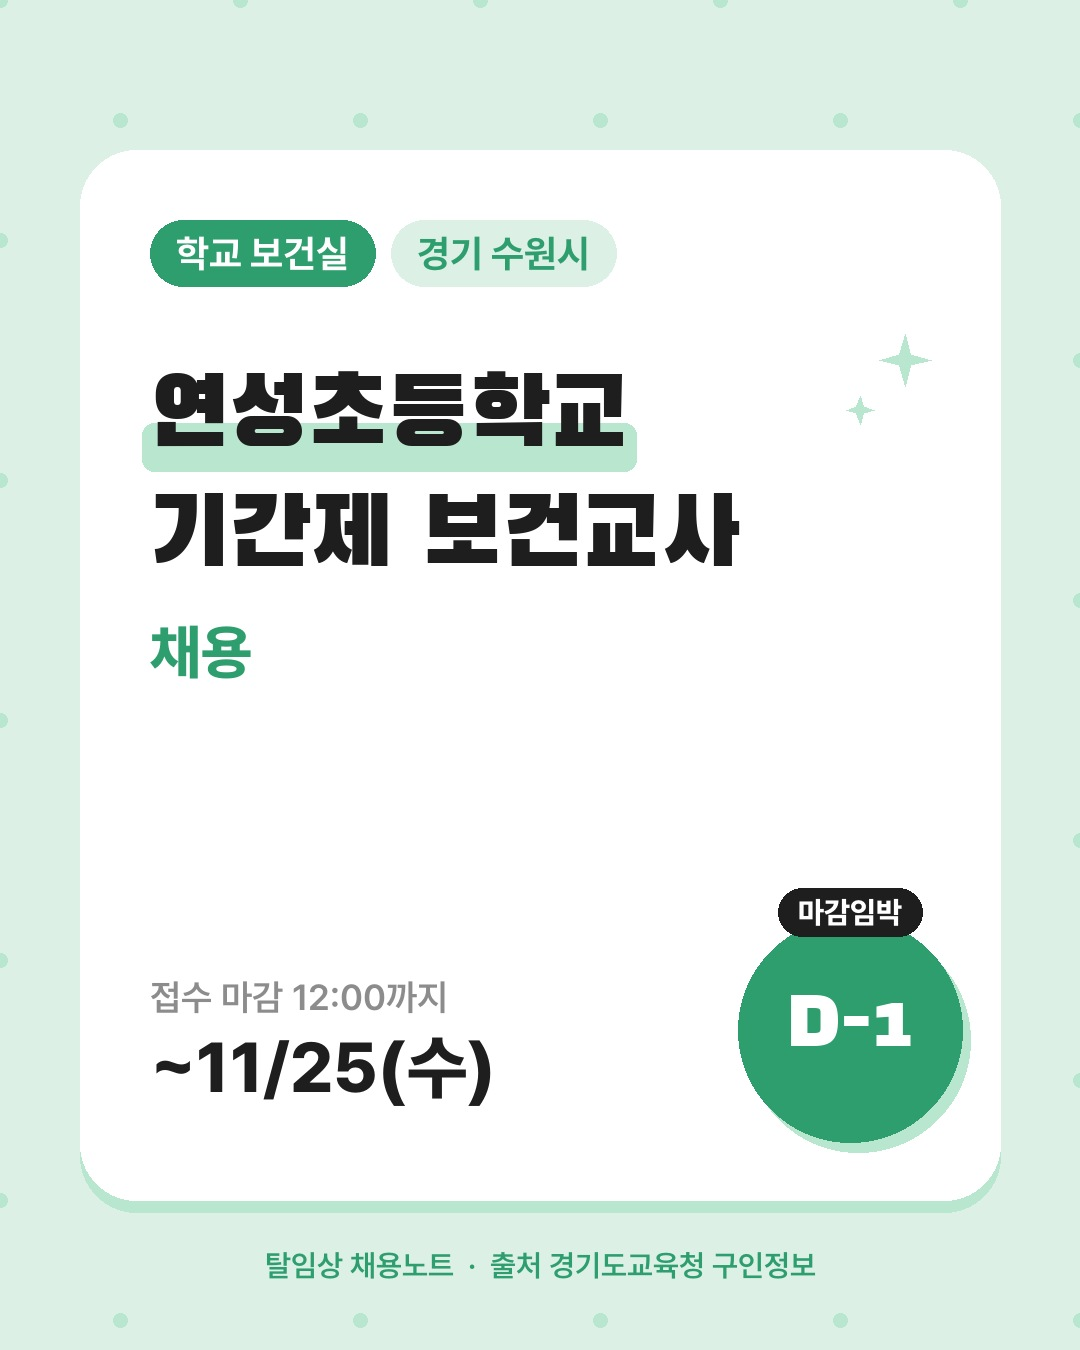
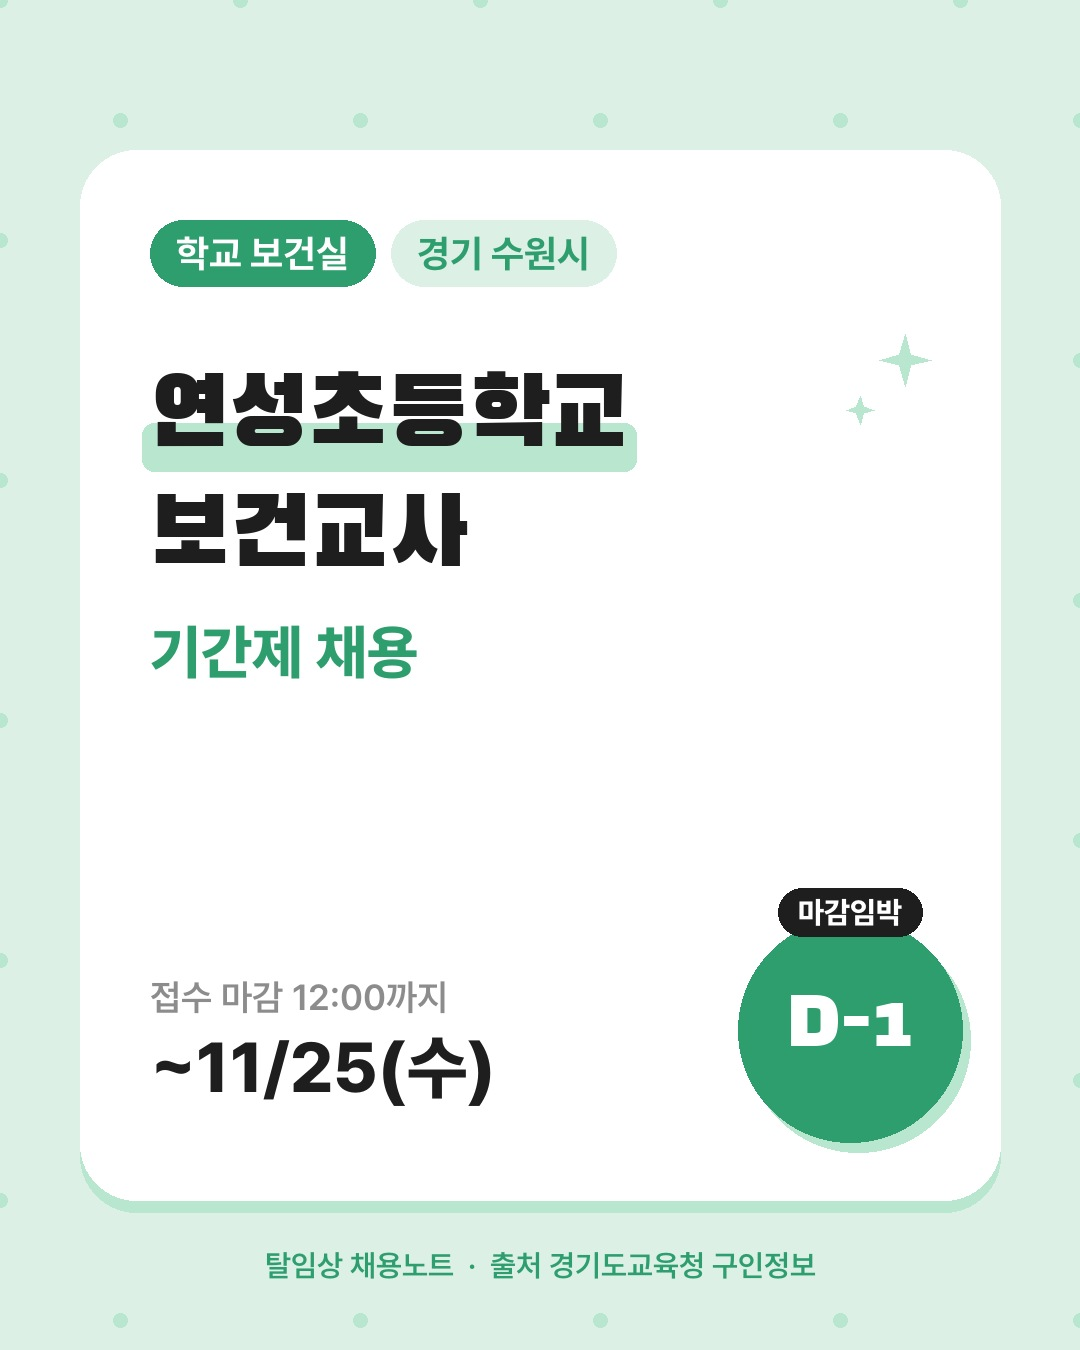
분류·콘텐츠 생성·검토 2026-11-24
Claude-Session: https://claude.ai/code/session_015ozFBuX7AqhcAufKMqorkR

Changed region(s): [[0.1222, 0.3422, 0.7028, 0.4356], [0.1222, 0.4667, 0.3972, 0.4978]]

diff --git a/docs/2026-11-24/index.html b/docs/2026-11-24/index.html
@@ -47,16 +47,16 @@ a{color:var(--accent)}ul.days{padding-left:1.2em}
 <div class="row" style="margin-top:10px"><pre id="tg1" style="flex:1;margin:0">#순천향대학교서울병원채용 #간호사채용 #탈임상 #탈임상간호사 #순천향대서울병원 #임상시험지원팀 #연구간호사 #서울간호사 #계약직 #간호사이직</pre>
 <button onclick="copyText('tg1',this)">태그 복사</button></div>
 <div class="row" style="margin-top:10px;align-items:flex-start"><a href="thumb-01.png" download><img src="thumb-01.png" alt="썸네일 1" style="width:160px;border-radius:8px;border:1px solid var(--line)"></a>
-<span class="muted">썸네일: 이미지를 눌러 저장 후 글 맨 위에 넣으세요</span></div></div><div class="box"><div class="row"><b>글 2. 연성초등학교 · 기간제 보건교사</b>
+<span class="muted">썸네일: 이미지를 눌러 저장 후 글 맨 위에 넣으세요</span></div></div><div class="box"><div class="row"><b>글 2. 연성초등학교 · 보건교사</b>
 <span class="muted">카테고리: 탈임상 채용공고 &gt; 보건교사</span></div>
-<div class="row" style="margin-top:8px"><pre id="pt2" style="flex:1;margin:0">[수원] 연성초등학교 기간제 보건교사 채용 (~11/25)</pre>
+<div class="row" style="margin-top:8px"><pre id="pt2" style="flex:1;margin:0">[수원] 연성초등학교 보건교사 기간제 채용 (~11/25)</pre>
 <button onclick="copyText('pt2',this)">제목 복사</button></div>
 <details open><summary class="muted" style="margin:10px 0;cursor:pointer">본문 미리보기 (접기)</summary>
 <div id="pb2" class="post"><p>1년짜리 기간제라 학교 보건실 경력을 한 학년 동안 온전히 쌓을 수 있는 자리입니다. 수원 연성초등학교가 12월 1일부터 근무할 보건교사를 찾습니다.</p><p>&nbsp;</p>
 <h2>📌 채용 개요</h2>
 <table border="1" cellpadding="8" style="border-collapse:collapse;width:100%">
 <tr><td style="width:30%;background:#f5f5f5"><b>기관</b></td><td>연성초등학교</td></tr>
-<tr><td style="width:30%;background:#f5f5f5"><b>부서 · 직무</b></td><td>기간제 보건교사</td></tr>
+<tr><td style="width:30%;background:#f5f5f5"><b>부서 · 직무</b></td><td>보건교사</td></tr>
 <tr><td style="width:30%;background:#f5f5f5"><b>채용 인원</b></td><td>1명</td></tr>
 <tr><td style="width:30%;background:#f5f5f5"><b>고용 형태</b></td><td>기간제교원 (1년 계약) (2026.12.01~2027.11.30 (1년))</td></tr>
 <tr><td style="width:30%;background:#f5f5f5"><b>근무지</b></td><td>경기 수원시</td></tr>
@@ -255,10 +255,10 @@ a{color:var(--accent)}ul.days{padding-left:1.2em}
 <tr><td>11/25<br><b><span style="color:#e03131">D-1</span></b></td><td><a href="https://job.alio.go.kr/recruitview.do?idx=306861">대한적십자사</a><br>인천적십자병원 심사실 보험심사 간호사 · <b>대체인력</b><br>📝 <a href="https://blog.naver.com/PostSearchList.naver?blogId=live_in_fact&amp;orderType=sim&amp;searchText=%EB%8C%80%ED%95%9C%EC%A0%81%EC%8B%AD%EC%9E%90%EC%82%AC">정리글 보기</a></td><td>인천 연수구</td></tr>
 <tr><td>11/29<br>D-5</td><td>🆕 <a href="https://job.incruit.com/jobdb_info/jobpost.asp?job=2611230000589&amp;pco=583">IPARK현대산업개발</a><br>보건관리자 · <b>계약직</b></td><td>서울 용산구</td></tr>
 <tr><td>11/29<br>D-5</td><td>🆕 <a href="https://www.jobkorea.co.kr/Recruit/GI_Read/50410286">크루솔루션스</a><br>평택 사업장 보건관리자 · <b>정규직</b><br>📝 <a href="https://blog.naver.com/PostSearchList.naver?blogId=live_in_fact&amp;orderType=sim&amp;searchText=%ED%81%AC%EB%A3%A8%EC%86%94%EB%A3%A8%EC%85%98%EC%8A%A4">정리글 보기</a></td><td>경기 평택시</td></tr>
-<tr><td>11/30<br>D-6</td><td>🆕 <a href="https://www.work24.go.kr/wk/a/b/1500/empDetailAuthView.do?wantedAuthNo=186138&amp;infoTypeCd=OEW&amp;infoTypeGroup=tb_workinfoopen">에스지씨이앤씨</a><br>보건관리자</td><td>전국 (현장)</td></tr>
+<tr><td>11/30<br>D-6</td><td>🆕 <a href="https://www.work24.go.kr/wk/a/b/1500/empDetailAuthView.do?wantedAuthNo=186138&amp;infoTypeCd=OEW&amp;infoTypeGroup=tb_workinfoopen">에스지씨이앤씨</a><br>보건관리자<br>📝 <a href="https://blog.naver.com/PostSearchList.naver?blogId=live_in_fact&amp;orderType=sim&amp;searchText=%EC%97%90%EC%8A%A4%EC%A7%80%EC%94%A8%EC%9D%B4%EC%95%A4%EC%94%A8">정리글 보기</a></td><td>전국 (현장)</td></tr>
 <tr><td>11/30<br>D-6</td><td>🆕 <a href="https://www.jobkorea.co.kr/Recruit/GI_Read/50395495">케이티씨에스</a><br>LG전자 매니저운영센터 보건관리자 · <b>계약직</b><br>📝 <a href="https://blog.naver.com/PostSearchList.naver?blogId=live_in_fact&amp;orderType=sim&amp;searchText=%EC%BC%80%EC%9D%B4%ED%8B%B0%EC%94%A8%EC%97%90%EC%8A%A4">정리글 보기</a></td><td>서울 강서구</td></tr>
-<tr><td>12/2<br>D-8</td><td>🆕 <a href="http://www.saramin.co.kr/zf_user/recruit/recruit-view?idx=55649076">라온건설</a><br>보건관리자 · <b>계약직</b></td><td>경기 용인시 ·  대전 서구</td></tr>
-<tr><td>12/6<br>D-12</td><td>🆕 <a href="https://www.work24.go.kr/wk/a/b/1500/empDetailAuthView.do?wantedAuthNo=K172112611230068&amp;infoTypeCd=VALIDATION&amp;infoTypeGroup=tb_workinfoworknet">환영철강공업</a><br>보건관리자 · <b>무기계약직</b></td><td>충청 당진시</td></tr>
+<tr><td>12/2<br>D-8</td><td>🆕 <a href="http://www.saramin.co.kr/zf_user/recruit/recruit-view?idx=55649076">라온건설</a><br>보건관리자 · <b>계약직</b><br>📝 <a href="https://blog.naver.com/PostSearchList.naver?blogId=live_in_fact&amp;orderType=sim&amp;searchText=%EB%9D%BC%EC%98%A8%EA%B1%B4%EC%84%A4">정리글 보기</a></td><td>경기 용인시 ·  대전 서구</td></tr>
+<tr><td>12/6<br>D-12</td><td>🆕 <a href="https://www.work24.go.kr/wk/a/b/1500/empDetailAuthView.do?wantedAuthNo=K172112611230068&amp;infoTypeCd=VALIDATION&amp;infoTypeGroup=tb_workinfoworknet">환영철강공업</a><br>보건관리자 · <b>무기계약직</b><br>📝 <a href="https://blog.naver.com/PostSearchList.naver?blogId=live_in_fact&amp;orderType=sim&amp;searchText=%ED%99%98%EC%98%81%EC%B2%A0%EA%B0%95%EA%B3%B5%EC%97%85">정리글 보기</a></td><td>충청 당진시</td></tr>
 <tr><td>12/18<br>D-24</td><td>🆕 <a href="https://www.work24.go.kr/wk/a/b/1500/empDetailAuthView.do?wantedAuthNo=51969656&amp;infoTypeCd=CJK&amp;infoTypeGroup=tb_workinfogubun">제일비에스</a><br>본사 보건관리자 · <b>정규직</b><br>📝 <a href="https://blog.naver.com/PostSearchList.naver?blogId=live_in_fact&amp;orderType=sim&amp;searchText=%EC%A0%9C%EC%9D%BC%EB%B9%84%EC%97%90%EC%8A%A4">정리글 보기</a></td><td>서울 서초구</td></tr>
 <tr><td>12/23<br>D-29</td><td>🆕 <a href="http://www.saramin.co.kr/zf_user/recruit/recruit-view?idx=55648118">지에스건설</a><br>보건관리자 · <b>계약직</b></td><td>대전 중구</td></tr>
 <tr><td>12/31<br>D-37</td><td>🆕 <a href="https://www.work24.go.kr/wk/a/b/1500/empDetailAuthView.do?wantedAuthNo=K163012611190022&amp;infoTypeCd=VALIDATION&amp;infoTypeGroup=tb_workinfoworknet">록산에버그린</a><br>보건관리자 · <b>정규직</b><br>📝 <a href="https://blog.naver.com/PostSearchList.naver?blogId=live_in_fact&amp;orderType=sim&amp;searchText=%EB%A1%9D%EC%82%B0%EC%97%90%EB%B2%84%EA%B7%B8%EB%A6%B0">정리글 보기</a></td><td>제주 제주시</td></tr>
@@ -304,13 +304,13 @@ a{color:var(--accent)}ul.days{padding-left:1.2em}
 <h2>🔬 임상연구 (12건)</h2>
 <table border="1" cellpadding="8" style="border-collapse:collapse;width:100%">
 <tr style="background:#f5f5f5"><td><b>마감</b></td><td><b>기관 · 직무</b></td><td><b>근무지</b></td></tr>
-<tr><td>11/25<br><b><span style="color:#e03131">D-1</span></b></td><td>🆕 <a href="http://www.saramin.co.kr/zf_user/recruit/recruit-view?idx=55619733">순천향대학교서울병원</a><br>임상시험 간호사 · <b>계약직</b></td><td>서울 용산구</td></tr>
+<tr><td>11/25<br><b><span style="color:#e03131">D-1</span></b></td><td>🆕 <a href="http://www.saramin.co.kr/zf_user/recruit/recruit-view?idx=55619733">순천향대학교서울병원</a><br>임상시험 간호사 · <b>계약직</b><br>📝 <a href="https://blog.naver.com/PostSearchList.naver?blogId=live_in_fact&amp;orderType=sim&amp;searchText=%EC%88%9C%EC%B2%9C%ED%96%A5%EB%8C%80%ED%95%99%EA%B5%90%EC%84%9C%EC%9A%B8%EB%B3%91%EC%9B%90">정리글 보기</a></td><td>서울 용산구</td></tr>
 <tr><td>12/3<br>D-9</td><td><a href="https://job.alio.go.kr/recruitview.do?idx=307212">부산대학교병원</a><br>권역외상센터 운영지원팀 연구원 · <b>계약직</b><br>📝 <a href="https://blog.naver.com/PostSearchList.naver?blogId=live_in_fact&amp;orderType=sim&amp;searchText=%EB%B6%80%EC%82%B0%EB%8C%80%ED%95%99%EA%B5%90%EB%B3%91%EC%9B%90">정리글 보기</a></td><td>부산</td></tr>
 <tr><td>12/15<br>D-21</td><td>🆕 <a href="http://www.saramin.co.kr/zf_user/recruit/recruit-view?idx=55582657">제이인츠바이오</a><br>CRA · <b>정규직</b></td><td>서울 성동구</td></tr>
-<tr><td>12/18<br>D-24</td><td>🆕 <a href="https://job.incruit.com/jobdb_info/jobpost.asp?job=2611180001031">노바씨알</a><br>SM팀 CRC · <b>정규직</b></td><td>서울 외</td></tr>
+<tr><td>12/18<br>D-24</td><td>🆕 <a href="https://job.incruit.com/jobdb_info/jobpost.asp?job=2611180001031">노바씨알</a><br>SM팀 CRC · <b>정규직</b><br>📝 <a href="https://blog.naver.com/PostSearchList.naver?blogId=live_in_fact&amp;orderType=sim&amp;searchText=%EB%85%B8%EB%B0%94%EC%94%A8%EC%95%8C">정리글 보기</a></td><td>서울 외</td></tr>
 <tr><td>12/19<br>D-25</td><td>🆕 <a href="http://www.saramin.co.kr/zf_user/recruit/recruit-view?idx=55621377">휴엘리서치</a><br>CRA · <b>정규직</b></td><td>경기 성남시</td></tr>
 <tr><td>12/20<br>D-26</td><td>🆕 <a href="https://job.incruit.com/jobdb_info/jobpost.asp?job=2611200003394&amp;pco=583">제이앤파트너즈코리아</a><br>CRA · <b>정규직</b></td><td>-</td></tr>
-<tr><td>12/22<br>D-28</td><td>🆕 <a href="http://www.saramin.co.kr/zf_user/recruit/recruit-view?idx=55639350">디알리서치</a><br>CRA · <b>정규직</b></td><td>서울 송파구</td></tr>
+<tr><td>12/22<br>D-28</td><td>🆕 <a href="http://www.saramin.co.kr/zf_user/recruit/recruit-view?idx=55639350">디알리서치</a><br>CRA · <b>정규직</b><br>📝 <a href="https://blog.naver.com/PostSearchList.naver?blogId=live_in_fact&amp;orderType=sim&amp;searchText=%EB%94%94%EC%95%8C%EB%A6%AC%EC%84%9C%EC%B9%98">정리글 보기</a></td><td>서울 송파구</td></tr>
 <tr><td>12/23<br>D-29</td><td>🆕 <a href="https://job.incruit.com/jobdb_info/jobpost.asp?job=2611230000970">피플워크</a><br>임상운영 · <b>정규직</b></td><td>인천</td></tr>
 <tr><td>상시</td><td>🆕 <a href="http://www.saramin.co.kr/zf_user/recruit/recruit-view?idx=55624494">클립스비엔씨</a><br>CRA (2건) · <b>정규직</b></td><td>서울 마포구</td></tr>
 <tr><td>상시</td><td>🆕 <a href="https://job.incruit.com/jobdb_info/jobpost.asp?job=2611170000287&amp;pco=583">케이원파트너스컴퍼니</a><br>CRA · <b>정규직</b></td><td>-</td></tr>
@@ -319,7 +319,7 @@ a{color:var(--accent)}ul.days{padding-left:1.2em}
 <h2>🏫 보건교사·학교 보건실 (3건)</h2>
 <table border="1" cellpadding="8" style="border-collapse:collapse;width:100%">
 <tr style="background:#f5f5f5"><td><b>마감</b></td><td><b>기관 · 직무</b></td><td><b>근무지</b></td></tr>
-<tr><td>11/25<br><b><span style="color:#e03131">D-1</span></b></td><td>🆕 <a href="https://www.goe.go.kr/recruit/ad/func/pb/hnfpPbancList.do?mi=10502">연성초등학교</a><br>기간제 보건교사 · <b>기간제</b></td><td>경기 수원시</td></tr>
+<tr><td>11/25<br><b><span style="color:#e03131">D-1</span></b></td><td>🆕 <a href="https://www.goe.go.kr/recruit/ad/func/pb/hnfpPbancList.do?mi=10502">연성초등학교</a><br>보건교사 · <b>기간제</b><br>📝 <a href="https://blog.naver.com/PostSearchList.naver?blogId=live_in_fact&amp;orderType=sim&amp;searchText=%EC%97%B0%EC%84%B1%EC%B4%88%EB%93%B1%ED%95%99%EA%B5%90">정리글 보기</a></td><td>경기 수원시</td></tr>
 <tr><td>11/27<br><b><span style="color:#e03131">D-3</span></b></td><td><a href="https://work.sen.go.kr/work/search/recInfo/BD_selectRecDetail.do?q_rcrtSn=114471">서울명신초등학교</a><br>보건 시간강사<br>📝 <a href="https://blog.naver.com/PostSearchList.naver?blogId=live_in_fact&amp;orderType=sim&amp;searchText=%EC%84%9C%EC%9A%B8%EB%AA%85%EC%8B%A0%EC%B4%88%EB%93%B1%ED%95%99%EA%B5%90">정리글 보기</a></td><td>서울 종로구</td></tr>
 <tr><td>1/8<br>D-45</td><td><a href="https://work.sen.go.kr/work/search/recInfo/BD_selectRecDetail.do?q_rcrtSn=110792">봉은중학교</a><br>보건 대체강사<br>📝 <a href="https://blog.naver.com/PostSearchList.naver?blogId=live_in_fact&amp;orderType=sim&amp;searchText=%EB%B4%89%EC%9D%80%EC%A4%91%ED%95%99%EA%B5%90">정리글 보기</a></td><td>서울</td></tr>
 </table><p>&nbsp;</p>
@@ -340,7 +340,7 @@ a{color:var(--accent)}ul.days{padding-left:1.2em}
 · 홍성군보건소 간호사 (D-DAY)
 · 한국고용정보원 보건관리자 (D-DAY)
 · 순천향대학교서울병원 임상시험 간호사 (D-1)
-· 연성초등학교 기간제 보건교사 (D-1)
+· 연성초등학교 보건교사 (D-1)
 · 대한산업보건협회 광주전남지역본부 보건관리 간호사 (D-1)
 · 대한적십자사 간호사 (D-1)
 · 홍성군보건소 정신건강 사례관리 (D-1)
@@ -373,7 +373,7 @@ a{color:var(--accent)}ul.days{padding-left:1.2em}
 #탈임상 #탈임상간호사 #간호사채용 #간호사이직 #간호사취업 #순천향대서울병원 #임상시험지원팀 #연구간호사 #서울간호사 #계약직</pre>
 <button onclick="copyText('ic1',this)">캡션 복사</button></div></div><div class="box"><div style="display:flex;flex-wrap:wrap"><a href="ig-02-1.jpg" download><img src="ig-02-1.jpg" alt="인스타 2-1" style="width:150px;border-radius:8px;border:1px solid var(--line);margin:0 6px 6px 0"></a><a href="ig-02-2.jpg" download><img src="ig-02-2.jpg" alt="인스타 2-2" style="width:150px;border-radius:8px;border:1px solid var(--line);margin:0 6px 6px 0"></a><a href="ig-02-3.jpg" download><img src="ig-02-3.jpg" alt="인스타 2-3" style="width:150px;border-radius:8px;border:1px solid var(--line);margin:0 6px 6px 0"></a><a href="ig-02-4.jpg" download><img src="ig-02-4.jpg" alt="인스타 2-4" style="width:150px;border-radius:8px;border:1px solid var(--line);margin:0 6px 6px 0"></a></div>
 <div><b>인스타 2. 연성초등학교</b> <span class="muted">(4장 · 순서대로 올리세요)</span>
-<pre id="ic2" style="margin:8px 0">📌 [수원] 연성초등학교 기간제 보건교사 채용
+<pre id="ic2" style="margin:8px 0">📌 [수원] 연성초등학교 보건교사 기간제 채용
 
 📍 근무지: 경기 수원시
 ⏰ 마감: 11/25 12:00까지 (D-1)
